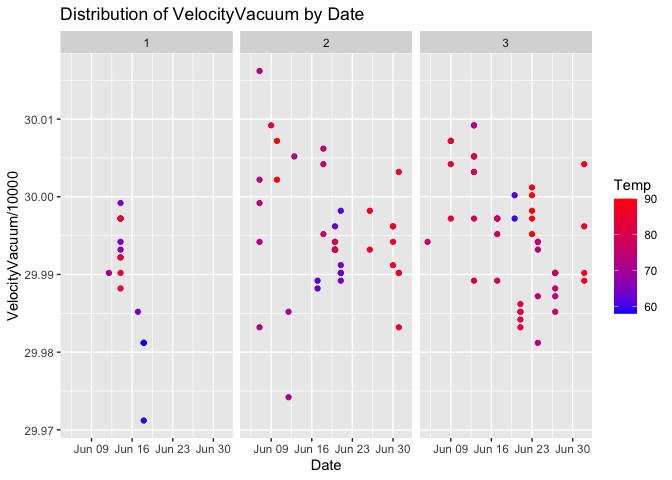
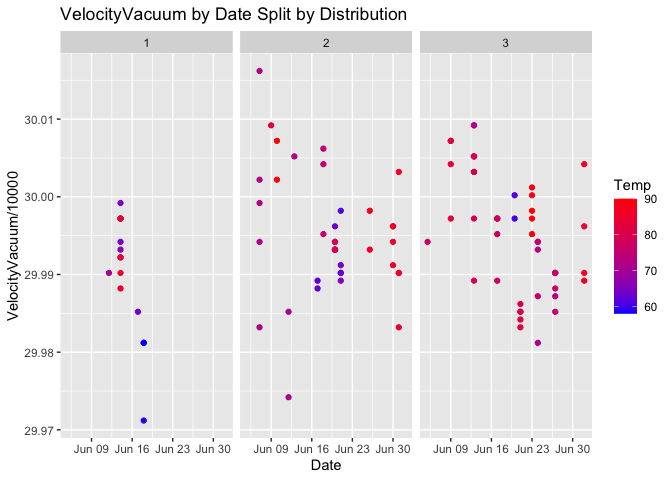
Update q4-task-plot-date-1 title

Changed region(s): [[0.0938, 0.0, 0.5938, 0.0625]]

diff --git a/challenges/c02-michelson-assignment.md b/challenges/c02-michelson-assignment.md
@@ -331,7 +331,7 @@ df_q2 %>%
   geom_point(mapping = aes(y = VelocityVacuum/10000, x = Date, color = Temp)) +
   scale_color_gradient(low = "blue", high = "red") +
   facet_wrap(~ Distinctness) +
-  labs(title = "Distribution of VelocityVacuum by Date")
+  labs(title = "VelocityVacuum by Date Split by Distribution")
 ```
 
 ![](c02-michelson-assignment_files/figure-gfm/q4-task-plot-date-1.png)<!-- -->
